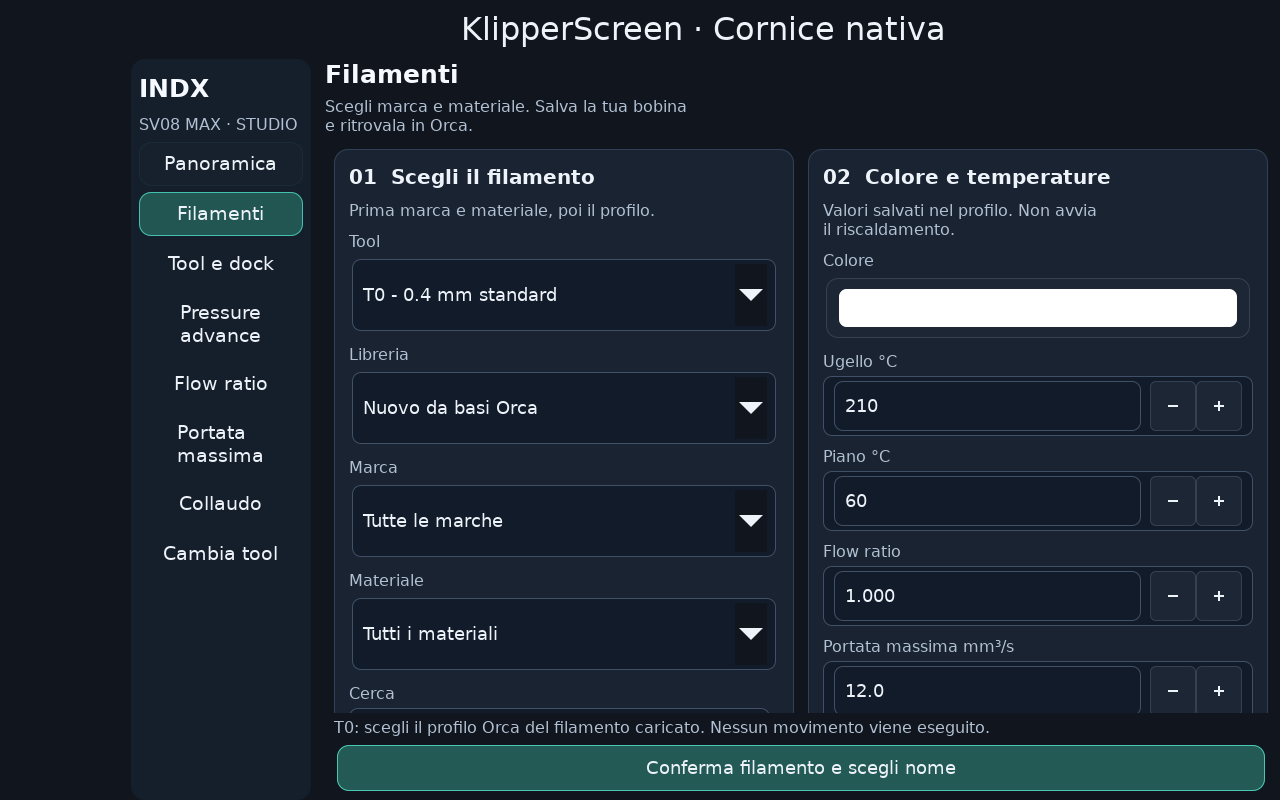
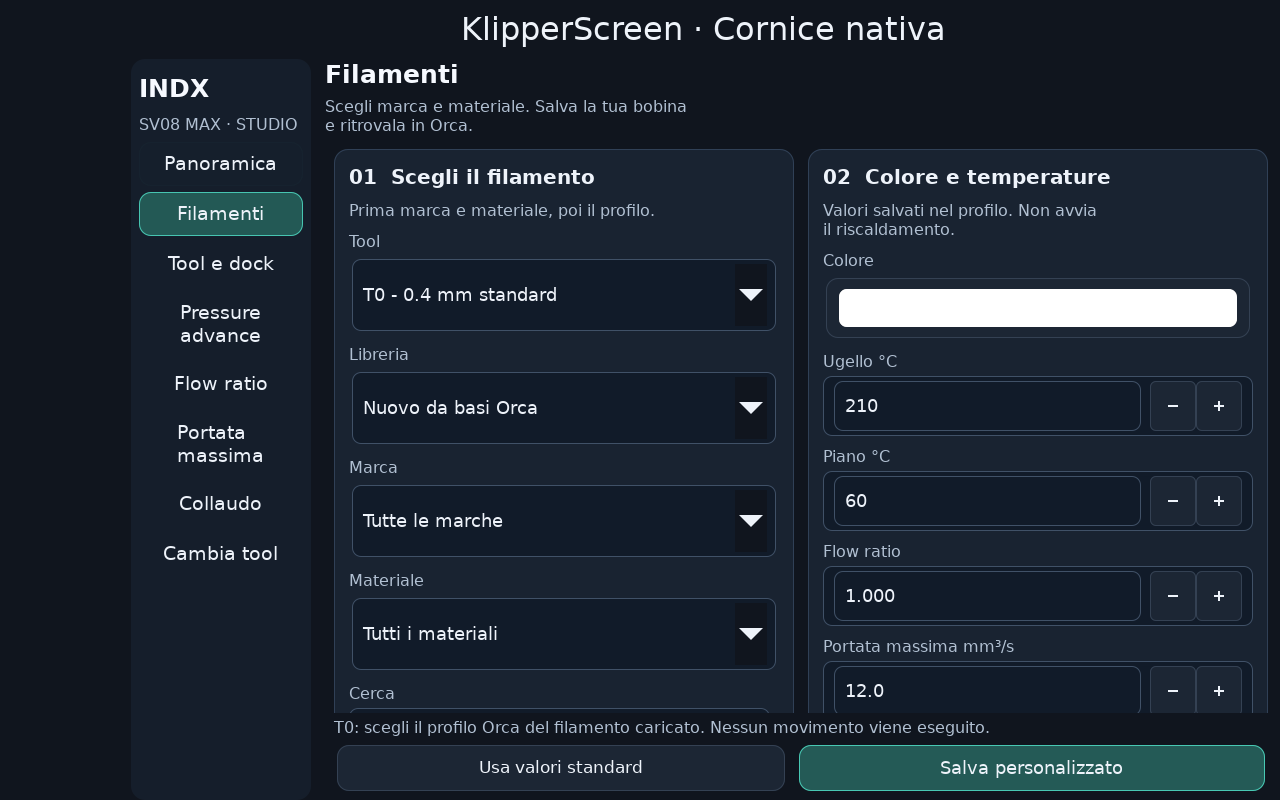
Sync assigned INDX filaments automatically into Orca
Add a per-tool visual color swatch in Orca and automatic application of touchscreen assignments, colors, base values and valid calibrations when idle. Keep local-edit conflict handling. Add standard defaults versus separate personal profiles on the touch, color-only saves and calibration promotion. Verify GTK workflow, native loopback synchronization into saved 3MF, Release build and targeted C++ tests; update the complete guide.

Changed region(s): [[0.25, 0.9062, 0.875, 1.0]]

diff --git a/test_filament_picker_gtk.py b/test_filament_picker_gtk.py
@@ -85,5 +85,17 @@ with tempfile.TemporaryDirectory() as td:
  nested.scope.set_active(2);nested.brand.set_active_id('Marca B');nested.material.set_active_id('PLA');nested.profiles.set_active_id('B PLA')
  GLib.timeout_add(100,respond,False);nested.assign()
  assert len(store.library())==1
+ panel.load_tool();original_temp=store.assigned(0)['temp'];panel.temp.set_value(250)
+ chosen=Gdk.RGBA();chosen.parse('#CC44AA');panel.color.set_rgba(chosen);panel.color.emit('color-set')
+ assert store.assigned(0)['color']=='#CC44AA'
+ assert store.assigned(0)['temp']==original_temp,'Color saved unrelated draft fields'
+ panel.flow.set_value(1.2);panel.bed.set_value(90);panel.assign_standard()
+ standard=store.assigned(0);assert standard['profile_mode']=='standard'
+ assert standard['flow']==1 and standard['temp']==210 and standard['bed']==60
+ assert not store.calibration(standard,0)
+ standard_uid=standard['library_id'];panel.flow.set_value(1.05)
+ GLib.timeout_add(100,respond,True,'PETG personalizzato');panel.assign()
+ custom=store.assigned(0);assert custom['profile_mode']=='custom' and custom['library_id']!=standard_uid
+ assert custom['flow']==1.05 and store.library()[standard_uid]['flow']==1
  dashboard.content.destroy();screen.destroy()
 print('PASS actual GTK: dependent brand/material/profile lists, incompatible/source filtering, cancel without writes, name at confirmation, assign/rename stable UUID, dashboard proxy, no printer actions.')

diff --git a/test_profiles.py b/test_profiles.py
@@ -10,6 +10,6 @@ with tempfile.TemporaryDirectory() as td,zipfile.ZipFile(Path(__file__).with_nam
   if not entry.filename.endswith('.py'):continue
   if name.parts[0] not in ('touchscreen','tests'):raise ValueError('Unexpected archive entry')
   dest=root.joinpath(*name.parts);dest.parent.mkdir(parents=True,exist_ok=True);dest.write_bytes(archive.read(entry))
- for name in ['test-native-protocol.py','test-curated-library.py','test-nozzle-variants.py','test-preflight-profiles.py','test-commissioning.py','test-machine-config.py']:
+ for name in ['test-native-protocol.py','test-curated-library.py','test-nozzle-variants.py','test-preflight-profiles.py','test-commissioning.py','test-machine-config.py','test-standard-filaments.py']:
   subprocess.run([sys.executable,str(root/'tests'/name)],cwd=root,check=True)
 print('All isolated profile, hardware-variant and G-code generator tests passed. No printer contacted.')

diff --git a/FILAMENTI_STANDARD_PERSONALIZZATI.md b/FILAMENTI_STANDARD_PERSONALIZZATI.md
@@ -1,0 +1,34 @@
+# Colori automatici e profili standard o personalizzati
+
+## Sul touch
+
+1. Aprire **INDX → Filamenti**, scegliere il tool, la libreria di basi, marca, materiale e profilo. Temperatura ugello, piano, flow e portata vengono dalla base Orca scelta, non da una tabella universale per il solo nome PLA/PETG.
+2. Toccare il campione per scegliere il colore. La selezione su un profilo già assegnato salva subito solo il colore; non salva altri campi eventualmente modificati. Su una nuova base il colore rimane in bozza fino all'assegnazione.
+3. **Usa valori standard:** salva e assegna una copia senza test, usando i valori originali della base e il colore scelto. Eventuali modifiche manuali nei campi non vengono trattate come valori stock. Nessuna calibrazione viene inventata.
+4. **Salva personalizzato:** conserva le modifiche, chiede il nome e assegna il profilo. Si possono quindi eseguire PA, flow e portata e salvare i risultati. Partendo da uno standard viene creata un'identità separata, conservando lo standard per il riutilizzo.
+
+Se si avvia una calibrazione da uno standard, al salvataggio del risultato viene creata una copia personalizzata. I risultati rimangono specifici per filamento, tool, diametro e tipo di ugello. La sola scelta standard non rende verificati PA, flow o portata.
+
+![Filamenti sul touch con dati di prova](studio-indx_filaments.png)
+
+## In Orca
+
+**INDX → Config tool → Colore del tool** mostra un campione senza codice o nome del colore: selezionare Tn e toccare il campione per aprire la palette nativa. Questo comando modifica il colore nel progetto Orca. La sincronizzazione automatica richiesta è dalla stampante verso Orca; non modifica la libreria stampante quando si sceglie un colore locale in Orca.
+
+![Campione colore in Orca](orca-colore-tool.png)
+
+Con Orca aperto e collegato, i profili assegnati dalla stampante aggiornano automaticamente i relativi slot del progetto: colore, temperature, valori di base e risultati di calibrazione ancora validi. La lettura avviene normalmente ogni 15 secondi, oltre ai tempi di rete. Slicing/esportazione, profili non salvati e finestre modali rimandano l'applicazione. Le copie generate modificate localmente richiedono confronto con **Sincronizza filamenti nel progetto**, invece di essere sovrascritte.
+
+Le assegnazioni dei tool occupano i primi slot corrispondenti; eventuali slot aggiuntivi non assegnati dalla stampante vengono conservati. Il progetto aggiornato richiede un nuovo slicing prima della stampa: un G-code già esportato non viene modificato o inviato automaticamente. Una successiva modifica sul touchscreen torna ad applicare i valori del profilo della stampante anche se il colore del progetto era stato cambiato localmente in Orca.
+
+![Prova di aggiornamento automatico, dati simulati](sync-filamenti-automatico.png)
+
+## Verifiche
+
+- GTK reale isolato: scelta/annullamento colore, aggiornamento immediato del record assegnato senza salvare temperature ancora in bozza, stock ripreso dalla base, copia personalizzata separata e identità stabile.
+- Layout con pulsanti KlippyGtk reali, font 32 px, barre titolo/laterali, 4 e 12 tool a 1024×600 e 1280×800.
+- Orca Windows Release con server Moonraker su loopback, senza connessione alla stampante: quattro assegnazioni applicate automaticamente; modifica simulata a colore e temperatura ricevuta senza premere Sincronizza. Il 3MF salvato contiene il nuovo colore in tutti i quattro slot e temperatura 220 °C.
+- 356 asserzioni in 15 test IndxChecks e 1177 asserzioni in 6 test FFF INDX superati. Nessun movimento, riscaldamento o flash.
+- Il controllo clang-tidy locale non è stato eseguito: lo script di progetto non riconosce il runtime Python portatile come installazione Python di sistema. La compilazione Release e i test sopra sono verificati separatamente.
+
+I dati delle immagini e del test a 220 °C sono simulati e non prescrivono una temperatura per il filamento reale. I valori stock dipendono dalla base effettivamente scelta e restano da verificare sulla propria macchina.

diff --git a/NUOVE_FUNZIONI.md b/NUOVE_FUNZIONI.md
@@ -1,5 +1,9 @@
 # Preview 0.3.0 - interfaccia diretta e configurazione dalla stampante
 
+## Colori e filamenti
+
+Campione colore anche in Orca, aggiornamento automatico delle assegnazioni dal touch al progetto e due scelte sul touch: **Usa valori standard** oppure **Salva personalizzato**. I valori standard provengono dalla base Orca selezionata; non vengono dichiarati calibrati. [Uso e verifiche](FILAMENTI_STANDARD_PERSONALIZZATI.md).
+
 ## INDX Studio e Performance
 
 Nuova panoramica tool, navigazione laterale, filamenti a schede con conferma sempre visibile e tema globale KlipperScreen. Disponibile il processo Performance da collaudare: stampa fino a 8000 mm/s² e travel 12000 mm/s² / 400 mm/s. [Interfaccia, installazione e risultati](INDX_STUDIO_PERFORMANCE.md).
